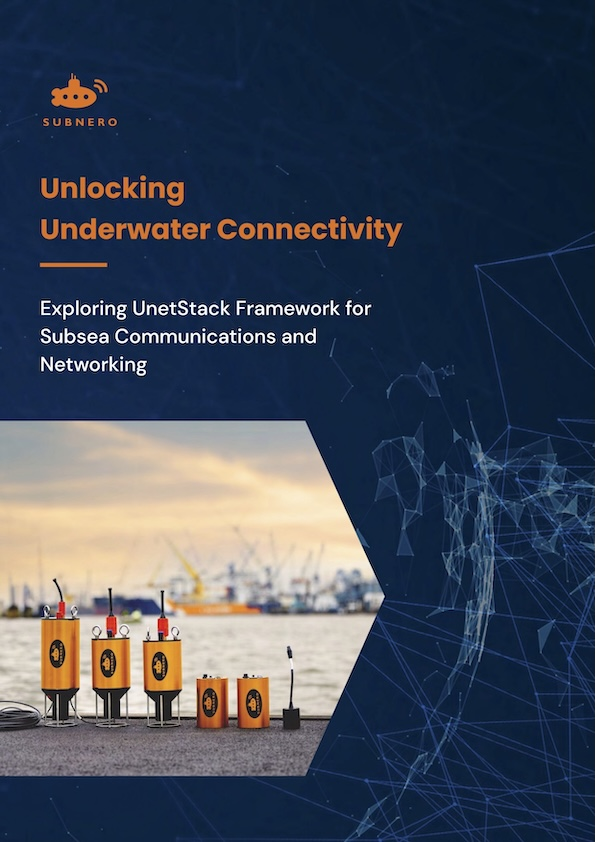
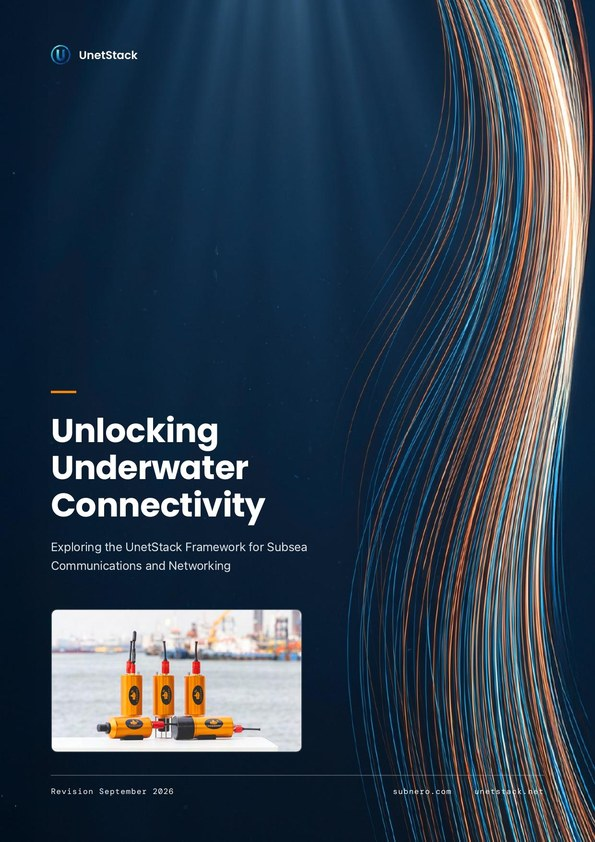
Update site for UnetStack 7
Aligns subnero.com with the UnetStack v7 release and the new unetstack.net:

- Regenerate whitepaper cover images from the September 2026 revision
- Add UnetStack 7 release announcement pulse post with new banner/thumbnail
- Rewrite download modal for v7.0.0 (tgz only, no PortAudio, dynamic year)
- Migrate 12 handbook links to the new handbook and 4 javadoc links to the
  new API reference at org-arl.github.io/unet
- Remove Unet audio from current-facing copy and the components diagram;
  faq23 kept with a legacy note (still downloadable with UnetStack 3)
- Align OEM edition copy with whitepaper Section 8 (smart modems, UnetCube,
  and UnetCloud), dropping the "(UnetCube)" subtitle

Claude-Session: https://claude.ai/code/session_01Dy4wzKwgKQRF7JSWYP6h1U

diff --git a/_includes/downloadUnetStack.html b/_includes/downloadUnetStack.html
@@ -8,7 +8,7 @@
     <div class="main">
       <h2>Terms of Use</h2>
       <div class="copyright">
-        <small>Copyright &copy; 2024, Acoustic Research Laboratory, National University of Singapore, and Subnero Pte Ltd.</small>
+        <small>Copyright &copy; {{ 'now' | date: "%Y" }}, Acoustic Research Laboratory, National University of Singapore, and Subnero Pte Ltd.</small>
         <small>All rights reserved.</small>
     </div>
       <p>The UnetStack community edition software may be freely used for academic teaching and research purposes only.</p>
@@ -25,22 +25,15 @@
       <div class="pre-req">
         <h4>Prerequisites</h4>
         <ul>
-          <li>OS X / Linux (x86_64) / Windows*</li>
-          <li><a href="https://www.java.com/en/download/" target="_blank">Java 8 runtime environment</a></li>
+          <li>macOS / Linux (x86_64) / Windows</li>
+          <li><a href="https://adoptium.net/temurin/releases?version=8&os=any&arch=any" target="_blank">Java 8 runtime environment</a></li>
           <li>Chrome 61+ / Firefox 60+ / Safari 10.1+</li>
-          <li><a href="http://www.portaudio.com/download.html" target="_blank">PortAudio</a>** (on OS X and Linux)</li>
         </ul>
-        <p>* Unet audio is currently not supported on the Windows platform</p>
-        <p>** Only required for Unet audio</p>
       </div>
       <div class="footer">
         <button class="button unet-download-btn" id="downloadTgz">
           <svg viewBox="0 0 24 24"><path fill="currentColor" d="m10 13.6l5.9-5.9q.275-.275.7-.275t.7.275t.275.7t-.275.7l-6.6 6.6q-.3.3-.7.3t-.7-.3l-2.6-2.6q-.275-.275-.275-.7t.275-.7t.7-.275t.7.275z"/></svg>
           <span>Accept (Download tgz)</span>
-        </button>
-        <button class="button unet-download-btn zip" id="downloadZip">
-          <svg viewBox="0 0 24 24"><path fill="currentColor" d="m10 13.6l5.9-5.9q.275-.275.7-.275t.7.275t.275.7t-.275.7l-6.6 6.6q-.3.3-.7.3t-.7-.3l-2.6-2.6q-.275-.275-.275-.7t.275-.7t.7-.275t.7.275z"/></svg>
-          <span>Accept (Download zip)</span>
         </button>
         <button class="button secondary unet-download-btn" id="downloadDecline">
           <svg viewBox="0 0 24 24"><path fill="currentColor" d="m12 13.4l-2.9 2.9q-.275.275-.7.275t-.7-.275t-.275-.7t.275-.7l2.9-2.9l-2.9-2.875q-.275-.275-.275-.7t.275-.7t.7-.275t.7.275l2.9 2.9l2.875-2.9q.275-.275.7-.275t.7.275q.3.3.3.713t-.3.687L13.375 12l2.9 2.9q.275.275.275.7t-.275.7q-.3.3-.712.3t-.688-.3z"/></svg>
@@ -57,7 +50,6 @@ const openDownload = document.getElementById('openDownload');
 const closeDownload = document.getElementById('closeDownload');
 const downloadDecline = document.getElementById('downloadDecline');
 const downloadTgz = document.getElementById('downloadTgz');
-const downloadZip = document.getElementById('downloadZip');
 
 function closeModal(modal) {
   if (!modal) return;
@@ -114,29 +106,13 @@ if (downloadTgz) {
     // GA4 Event Tracking
     if (typeof gtag === 'function') {
       gtag('event', 'file_download', {
-        'file_name': 'unet-community-3.4.4.tgz',
+        'file_name': 'unet-community-7.0.0.tgz',
         'file_extension': 'tgz',
         'link_text': 'Download TGZ',
-        'link_url': 'https://unetstack.net/downloads/unet-community-3.4.4.tgz'
+        'link_url': 'https://unetstack.net/downloads/unet-community-7.0.0.tgz'
       });
     }
-    startDownload('https://unetstack.net/downloads/unet-community-3.4.4.tgz');
-  });
-}
-
-if (downloadZip) {
-  downloadZip.addEventListener('click', function (e) {
-    e.preventDefault();
-    // GA4 Event Tracking
-    if (typeof gtag === 'function') {
-      gtag('event', 'file_download', {
-        'file_name': 'unet-community-3.4.4.zip',
-        'file_extension': 'zip',
-        'link_text': 'Download ZIP',
-        'link_url': 'https://unetstack.net/downloads/unet-community-3.4.4.zip'
-      });
-    }
-    startDownload('https://unetstack.net/downloads/unet-community-3.4.4.zip');
+    startDownload('https://unetstack.net/downloads/unet-community-7.0.0.tgz');
   });
 }
 

diff --git a/_includes/languageAPI.html b/_includes/languageAPI.html
@@ -50,9 +50,9 @@
             <tr>
               <td>Java</td>
               <td>
-                <a href="https://unetstack.net/handbook/unet-handbook_unetsocket_api.html" target="_blank">UnetSocket</a>, 
-                <a href="https://unetstack.net/javadoc/3.4/org/arl/unet/api/UnetSocket.html" target="_blank">API docs</a>, 
-                <a href="https://unetstack.net/handbook/unet-handbook_developing_your_own_agents.html" target="_blank">Agent development</a>
+                <a href="https://org-arl.github.io/unet/handbook/206_api.html" target="_blank">UnetSocket</a>, 
+                <a href="https://org-arl.github.io/unet/api/org/arl/unet/api/UnetSocket.html" target="_blank">API docs</a>, 
+                <a href="https://org-arl.github.io/unet/handbook/401_agents.html" target="_blank">Agent development</a>
               </td>
               <td>Stable</td>
               <td><a href="{{site.baseurl}}/products/wnc/unetstack/#editions">Download</a></td>
@@ -60,16 +60,16 @@
             <tr>
               <td>Groovy</td>
               <td>
-                <a href="https://unetstack.net/handbook/unet-handbook_unetsocket_api.html" target="_blank">UnetSocket</a>, 
-                <a href="https://unetstack.net/javadoc/3.4/org/arl/unet/api/UnetSocket.html" target="_blank">API docs</a>, 
-                <a href="https://unetstack.net/handbook/unet-handbook_developing_your_own_agents.html" target="_blank">Agent development</a>
+                <a href="https://org-arl.github.io/unet/handbook/206_api.html" target="_blank">UnetSocket</a>, 
+                <a href="https://org-arl.github.io/unet/api/org/arl/unet/api/UnetSocket.html" target="_blank">API docs</a>, 
+                <a href="https://org-arl.github.io/unet/handbook/401_agents.html" target="_blank">Agent development</a>
               </td>
               <td>Stable</td>
               <td><a href="{{site.baseurl}}/products/wnc/unetstack/#editions">Download</a></td>
             </tr>
             <tr>
               <td>Python 3</td>
-              <td><a href="https://unetstack.net/handbook/unet-handbook_unetsocket_api.html" target="_blank">UnetSocket</a></td>
+              <td><a href="https://org-arl.github.io/unet/handbook/206_api.html" target="_blank">UnetSocket</a></td>
               <td>Stable</td>
               <td><a href="https://pypi.org/project/unetpy/" target="_blank">unetpy</a></td>
             </tr>

diff --git a/technical-resources/index.html b/technical-resources/index.html
@@ -239,7 +239,7 @@ description: Datasheets, whitepapers, videos, patents, and publications to suppo
 					</div>
 					<div class="tech-content">
 						<h4>Unlocking Underwater Connectivity</h4>
-						<p>A practical overview of the UnetStack framework and how software-defined networking enables reliable, scalable underwater communication.</p>
+						<p>A practical overview of the UnetStack framework, its simulate-first workflow, and how software-defined networking enables reliable, scalable underwater communication.</p>
 					</div>
 				</a>
 				<a class="tech-link" href="{{site.baseurl}}/brochures/WNC-whitepaper.pdf" title="The Future of Underwater Wireless" target="_blank">

diff --git a/products/wnc/unetstack/index.md b/products/wnc/unetstack/index.md
@@ -73,7 +73,7 @@ breadcrumb: UnetStack
   <div class="row large">
     <div class="large-6 columns"> 
       <h2 class="text-3xl text-600 capitalize-none text-gradient g-orange inline-block normal-spacing">UnetStack Overview</h2>
-      <p>UnetStack is a suite of technologies that brings modern communication networks underwater. At its core is an extensible, agent-based framework for building underwater and hybrid communication systems, providing full control from the physical layer up to applications. Surrounding this core is an ecosystem of simulators, hardware components such as Unet audio and UnetCube, and libraries and APIs in multiple programming languages, supporting the entire workflow from development to deployment.</p>
+      <p>UnetStack is a suite of technologies that brings modern communication networks underwater. At its core is an extensible, agent-based framework for building underwater and hybrid communication systems, providing full control from the physical layer up to applications. Surrounding this core is an ecosystem of simulators, hardware components such as UnetCube, and libraries and APIs in multiple programming languages, supporting the entire workflow from development to deployment.</p>
       <ul class="feature-list ra">
         <li><i class="icon-check"></i> <span class="text-lg">Supports standalone underwater networks & hybrid systems (Acoustic, Optical, RF, Wired).</span></li>
         <li><i class="icon-check"></i> <span class="text-lg">Includes localization, device & sensor management, and edge analytics.</span></li>
@@ -206,16 +206,15 @@ breadcrumb: UnetStack
         </div>
         <div>
           <h4 class="text-white m0 capitalize-none text-xl normal-spacing text-600 mt1">OEM Edition</h4>
-          <p class="text-md m0 text-white">(UnetCube)</p>
         </div>
-        <p class="text-md text-white m0">An embedded development platform for hardware in the loop simulation or OEMs.</p>
+        <p class="text-md text-white m0">The full stack on real hardware. Ships inside Subnero smart modems, UnetCube, and UnetCloud.</p>
         <ul class="custom-list">
           <li>
             <svg viewBox="0 0 24 24" fill="none" stroke="currentColor" stroke-width="2" stroke-linecap="round" stroke-linejoin="round" class="w-4 h-4 text-orange-200 mt-0.5 shrink-0"><circle cx="12" cy="12" r="10"></circle><path d="m9 12 2 2 4-4"></path></svg>
-            <span>Embedded Single Board Computer (SBC)</span>
+            <span>Full baseband service & device-specific agents</span>
           </li>
           <li><svg viewBox="0 0 24 24" fill="none" stroke="currentColor" stroke-width="2" stroke-linecap="round" stroke-linejoin="round" class="w-4 h-4 text-orange-200 mt-0.5 shrink-0"><circle cx="12" cy="12" r="10"></circle><path d="m9 12 2 2 4-4"></path></svg> Hardware-in-the-Loop Support</li>
-          <li><svg viewBox="0 0 24 24" fill="none" stroke="currentColor" stroke-width="2" stroke-linecap="round" stroke-linejoin="round" class="w-4 h-4 text-orange-200 mt-0.5 shrink-0"><circle cx="12" cy="12" r="10"></circle><path d="m9 12 2 2 4-4"></path></svg> Open Source Interfaces</li>
+          <li><svg viewBox="0 0 24 24" fill="none" stroke="currentColor" stroke-width="2" stroke-linecap="round" stroke-linejoin="round" class="w-4 h-4 text-orange-200 mt-0.5 shrink-0"><circle cx="12" cy="12" r="10"></circle><path d="m9 12 2 2 4-4"></path></svg> Licensed agents available</li>
         </ul> 
         <div class="contact-sales">{%- include formRequestQuote.html -%}</div>
       </div>
@@ -250,7 +249,7 @@ breadcrumb: UnetStack
           <div class="count ac">03</div>
           <div>
             <h5>Ecosystem Components</h5>
-            <p>Beyond the core framework, the ecosystem includes tools such as Virtual Acoustic Ocean (VAO) for high-fidelity acoustic simulation, Unet audio for sound-card-based modem development, UnetCube for embedded OEM deployments, and a broad set of APIs and libraries available in multiple programming languages.</p>
+            <p>Beyond the core framework, the ecosystem includes tools such as Virtual Acoustic Ocean (VAO) for high-fidelity acoustic simulation, UnetCube for embedded OEM deployments, UnetCloud for cloud-hosted modem-grade nodes, and a broad set of APIs and libraries available in multiple programming languages.</p>
           </div>
         </div>
       </div>
@@ -271,7 +270,7 @@ breadcrumb: UnetStack
   </div>
   <div class="row py2">
     <div class="feature-grid col3">
-      <a class="docs-card uj" href="https://unetstack.net/javadoc/3.4/" target="_blank">
+      <a class="docs-card uj" href="https://org-arl.github.io/unet/api/overview-summary.html" target="_blank">
         <div class="card-svg">
           <svg viewBox="0 0 24 24" fill="none" stroke="currentColor" stroke-width="2" stroke-linecap="round" stroke-linejoin="round" class="w-6 h-6"><path d="M6 22a2 2 0 0 1-2-2V4a2 2 0 0 1 2-2h8a2.4 2.4 0 0 1 1.704.706l3.588 3.588A2.4 2.4 0 0 1 20 8v12a2 2 0 0 1-2 2z"></path><path d="M14 2v5a1 1 0 0 0 1 1h5"></path><path d="M10 12.5 8 15l2 2.5"></path><path d="m14 12.5 2 2.5-2 2.5"></path></svg>
         </div>
@@ -280,7 +279,7 @@ breadcrumb: UnetStack
           <p>Programmer's reference & API docs.</p>
         </div>
       </a>
-      <a class="docs-card uh" href="https://unetstack.net/handbook" target="_blank">
+      <a class="docs-card uh" href="https://org-arl.github.io/unet/handbook/" target="_blank">
         <div class="card-svg">
           <svg viewBox="0 0 24 24" fill="none" stroke="currentColor" stroke-width="2" stroke-linecap="round" stroke-linejoin="round" class="w-6 h-6"><path d="M4 19.5v-15A2.5 2.5 0 0 1 6.5 2H19a1 1 0 0 1 1 1v18a1 1 0 0 1-1 1H6.5a1 1 0 0 1 0-5H20"></path></svg>
         </div>

diff --git a/_posts/2026-09-11-UnetStack-7-Released.md b/_posts/2026-09-11-UnetStack-7-Released.md
@@ -1,0 +1,52 @@
+---
+layout: pulse_post
+title: UnetStack 7 Released - A New Generation of Underwater Networking
+banner: images/banner-pulse-unetstack7.jpg
+date: 2026-09-11
+categories: unetstack product-launch feature
+thumbnail: images/pulse-thumbnail-unetstack7.jpg
+description: UnetStack 7 is here, with a redesigned unetstack.net, a new UnetStack Handbook, and an updated edition of the Unlocking Underwater Connectivity whitepaper.
+---
+
+<div class="post-main" markdown="1">
+
+We are excited to announce the release of UnetStack 7, the next generation of the software-defined framework that powers underwater communication networks, from research testbeds to Subnero's smart modems in the field. Developed as part of the Unet project at the Acoustic Research Laboratory (ARL), National University of Singapore, together with Subnero, UnetStack 7 carries forward everything the framework is known for: an agent-based network stack, a built-in simulator, and one codebase that runs the same from desktop simulation to deployment at sea.
+
+### A Brand New unetstack.net
+
+Alongside the release, [unetstack.net](https://unetstack.net/){:target="_blank"} has been rebuilt from the ground up. The new site walks through what UnetStack is, its architecture, and its editions, and offers the UnetStack 7 community edition as a free download for teaching and research use.
+
+[Visit the new unetstack.net &rarr;](https://unetstack.net/){:target="_blank"}  
+[Download the community edition &rarr;](https://unetstack.net/#downloads){:target="_blank"}
+
+### The New UnetStack Handbook
+
+The Underwater Networks Handbook, the definitive guide to designing, simulating, and deploying underwater networks with UnetStack, has been rewritten for UnetStack 7 and moved to a new home.
+
+[Read the UnetStack Handbook &rarr;](https://org-arl.github.io/unet/handbook/){:target="_blank"}
+
+### Updated Whitepaper: Unlocking Underwater Connectivity
+
+Our whitepaper, "Unlocking Underwater Connectivity: Exploring the UnetStack Framework for Subsea Communications and Networking", has been revised to reflect UnetStack 7 and the ecosystem around it. The September 2026 revision covers who UnetStack serves and how, the simulation ecosystem spanning [UnetSim]({{site.baseurl}}/products/wnc/unetstack/unetsim){:target="_blank"}, hardware-in-the-loop testing with the Virtual Acoustic Ocean, and [UnetCloud]({{site.baseurl}}/products/wnc/unetstack/unetcloud){:target="_blank"}, and the hardware path from [UnetCube]({{site.baseurl}}/products/wnc/unetstack/unetcube){:target="_blank"} to Subnero's [smart modems]({{site.baseurl}}/products/wnc){:target="_blank"}, along with the UnetStack architecture and editions.
+
+[Download the whitepaper, PDF &rarr;]({{site.baseurl}}/brochures/unlocking-underwater-connectivity.pdf){:target="_blank"}
+
+Whether you are simulating your first underwater network or building a modem of your own, there has never been a better time to dive in.
+
+[Explore UnetStack &rarr;]({{site.baseurl}}/products/wnc/unetstack){:target="_blank"}
+
+</div>
+
+<div class="post-sidebar" markdown="1">
+
+<a href="{{site.baseurl}}/brochures/unlocking-underwater-connectivity.pdf" title="Whitepaper" target="_blank" class="post-image-link" >
+  ![Whitepaper]({{site.baseurl}}/brochures/unetstack-whitepaper2.jpg)
+  *Download PDF*
+</a>
+
+<div class="post-sidebar" markdown="1">
+  <!-- Add sidebar content here -->
+  <div class="static-content">
+  {% include postSidebar.html %}
+  </div>
+</div>

diff --git a/_faq/faq20.md b/_faq/faq20.md
@@ -5,8 +5,8 @@ search_content: How can I use UnetStack for my own modem development?
 faq_section: unetstack
 ---
 
-If you are an OEM developer, you can use [UnetCube](https://subnero.com/products/wnc/unetstack/unetcube) from Subnero and design your modem hardware around it. For non-commercial users, UnetStack provides tools and guidance for building your own modems using off-the-shelf components. A detailed step-by-step process can be found in this [blog article](https://blog.unetstack.net/Project-Sabine-Low-cost-DIY-underwater-modem-using-COTS-components-and-Unet-audio).
+If you are an OEM developer, you can use [UnetCube](https://subnero.com/products/wnc/unetstack/unetcube) from Subnero and design your modem hardware around it. Supply the data acquisition and analog side, connect it to UnetCube over Ethernet using the open-source UASP protocol, and UnetCube handles the signal processing and the complete network stack above it. UnetCube can also add UnetStack networking on top of a third-party modem you already own.
 
-If you create a modem based on UnetStack, we’d love to hear from you! Contact us at sales@subnero.com to have your project showcased on our social media channels.
+If you create a modem based on UnetStack, we'd love to hear from you! Contact us at sales@subnero.com to have your project showcased on our social media channels.
 
-For detailed information about the various editions and their applications, refer to this [UnetStack whitepaper](https://subnero.com/brochures/unlocking-underwater-connectivity.pdf).
+For a detailed description of both approaches, refer to Section 6.3, "Building Your Own Modem Around UnetCube", of the [UnetStack whitepaper](https://subnero.com/brochures/unlocking-underwater-connectivity.pdf).

diff --git a/_faq/faq16.md b/_faq/faq16.md
@@ -5,12 +5,11 @@ search_content: What is UnetStack, and how can I access it?
 faq_section: unetstack
 ---
 
-UnetStack is a comprehensive collection of technologies designed to extend communication networks underwater featuring components such as the Unet framework, network stack, simulator, and Unet audio, each serving specific functions.
+UnetStack is a comprehensive collection of technologies designed to extend communication networks underwater, featuring components such as the Unet framework, network stack, and simulator, each serving specific functions.
 
 UnetStack is available in three editions:
-- Community Edition: Freely available for non-commercial use. Includes Unet Simulator, Unet audio (v3 only)
+- Community Edition: Freely available for non-commercial use. Includes the Unet Simulator with basic agents.
 - Commercial Edition: Same as Community Edition, but with a license for commercial use.
-- OEM Edition: Pre-installed on Subnero modems, tailored for integrated use. Also available as part of UnetCube.
+- OEM Edition: Runs on real hardware. It ships inside Subnero smart modems, UnetCube, and UnetCloud, and includes the full baseband service and device-specific agents.
 
 For detailed information about the various editions and their applications, refer to the [UnetStack page](https://subnero.com/products/wnc/unetstack/) or [whitepaper](https://subnero.com/brochures/unlocking-underwater-connectivity.pdf).
-

diff --git a/products/wnc/unetstack/unetsim.md b/products/wnc/unetstack/unetsim.md
@@ -151,7 +151,7 @@ breadcrumb: UnetSim
   </div>
   <div class="row py2">
     <div class="feature-grid col2 releveant-resources">
-      <a href="https://unetstack.net/handbook/unet-handbook_part_vi_simulating_underwater_networks.html" class="docs-card uh" target="_blank">
+      <a href="https://org-arl.github.io/unet/handbook/402_sim.html" class="docs-card uh" target="_blank">
         <div class="card-svg">
           <svg viewBox="0 0 24 24" fill="none" stroke="currentColor" stroke-width="1.5" stroke-linecap="round" stroke-linejoin="round"><path d="M9 2H1v19h1c2.944 0 5.14.245 6.586.486c.723.12 1.26.24 1.609.328c.174.046.331.091.472.13l.152.051h2.324l.152-.05l.088-.026c.122-.037.384-.103.989-.231c.723-.12 1.26-.24 1.609-.328C16.86 21.246 19.054 21 22 21h1V2h-8a4 4 0 0 0-3 1.354A4 4 0 0 0 9 2zM3 19.01V4h6a2 2 0 0 1 2 2v13.958c-.4-.1-.989-.23-1.766-.36c-1.379-.23-3.35-.457-5.914-.505zM19 10h-4V8h4zm0 3h-4v-2h4z"/></svg>
         </div>

diff --git a/_faq/faq33.md b/_faq/faq33.md
@@ -5,6 +5,6 @@ search_content: Can I do ranging and localization using Subnero modems?
 faq_section: other-features
 ---
 
-Yes, Subnero modems support acoustic ranging out-of-the-box using the [`ranging` agent](https://unetstack.net/handbook/unet-handbook_ranging_and_synchronization.html). With appropriate upgrades, the multi-receiver modems can function as USBL systems for positioning and tracking.
+Yes, Subnero modems support acoustic ranging out-of-the-box using the [`ranging` agent](https://org-arl.github.io/unet/handbook/313_ranging.html). With appropriate upgrades, the multi-receiver modems can function as USBL systems for positioning and tracking.
 
 For more on localization with multiple modems, see this blog article: [https://blog.unetstack.net/on-underwater-localization-using-unetstack](https://blog.unetstack.net/on-underwater-localization-using-unetstack)

diff --git a/support/index.md b/support/index.md
@@ -28,9 +28,9 @@ headerTag: Support
           <h5>Documentation</h5>
           <ul>
             <li><a href="https://unetstack.net/index.html#docs" target="_blank">Getting started with UnetStack</a></li>
-            <li><a href="https://unetstack.net/handbook/unet-handbook_preface.html" target="_blank">Underwater Networks Handbook</a></li>
+            <li><a href="https://org-arl.github.io/unet/handbook/" target="_blank">Underwater Networks Handbook</a></li>
             <li><a href="https://github.com/org-arl/unetsockets" target="_blank">UnetSockets</a></li>
-            <li><a href="https://unetstack.net/javadoc/3.0/" target="_blank">UnetStack API reference</a></li>
+            <li><a href="https://org-arl.github.io/unet/api/overview-summary.html" target="_blank">UnetStack API reference</a></li>
           </ul>
         </div>
       </div>

diff --git a/_faq/faq18.md b/_faq/faq18.md
@@ -7,7 +7,7 @@ faq_section: unetstack
 
 To get started with UnetStack:
 - Visit the [UnetStack page](https://subnero.com/products/wnc/unetstack/) or [UnetStack website](https://unetstack.net).
-- Explore the Unet Handbook for comprehensive documentation: [Unet Handbook](https://unetstack.net/handbook).
+- Explore the Unet Handbook for comprehensive documentation: [Unet Handbook](https://org-arl.github.io/unet/handbook/).
 - Access API documentation and examples in the [Unet Contributions Repository](https://github.com/org-arl/unet-contrib) and [Unet Sockets Repository](https://github.com/org-arl/unetsockets).
 - Join the Unet Support Forum for community discussions: [Unet Support Forum](https://github.com/org-arl/unet-support/discussions).
 - Explore use cases and examples in the Unet Blog: [Unet Blog](https://blog.unetstack.net).

diff --git a/industries/research-full.md b/industries/research-full.md
@@ -118,7 +118,7 @@ sitemap: false
         <ul>
           <li>Build underwater testbeds and run multi-node experiments at realistic scale.</li>
           <li>Study cellular style and mesh topologies, routing, handover, and resource sharing.</li>
-          <li>Get a <a href="https://unetstack.net/handbook/unet-handbook_setting_up_small_networks" target="_blank">network running</a> now instead of building the stack from scratch.</li>
+          <li>Get a <a href="https://org-arl.github.io/unet/handbook/202_small.html" target="_blank">network running</a> now instead of building the stack from scratch.</li>
         </ul>
         <p>Built on the <a href="{{site.baseurl}}/solutions/underwater-network">Subnero Underwater Network</a> and <a href="{{site.baseurl}}/products/wnc/unetstack/">UnetStack</a>.</p>
       </div>
